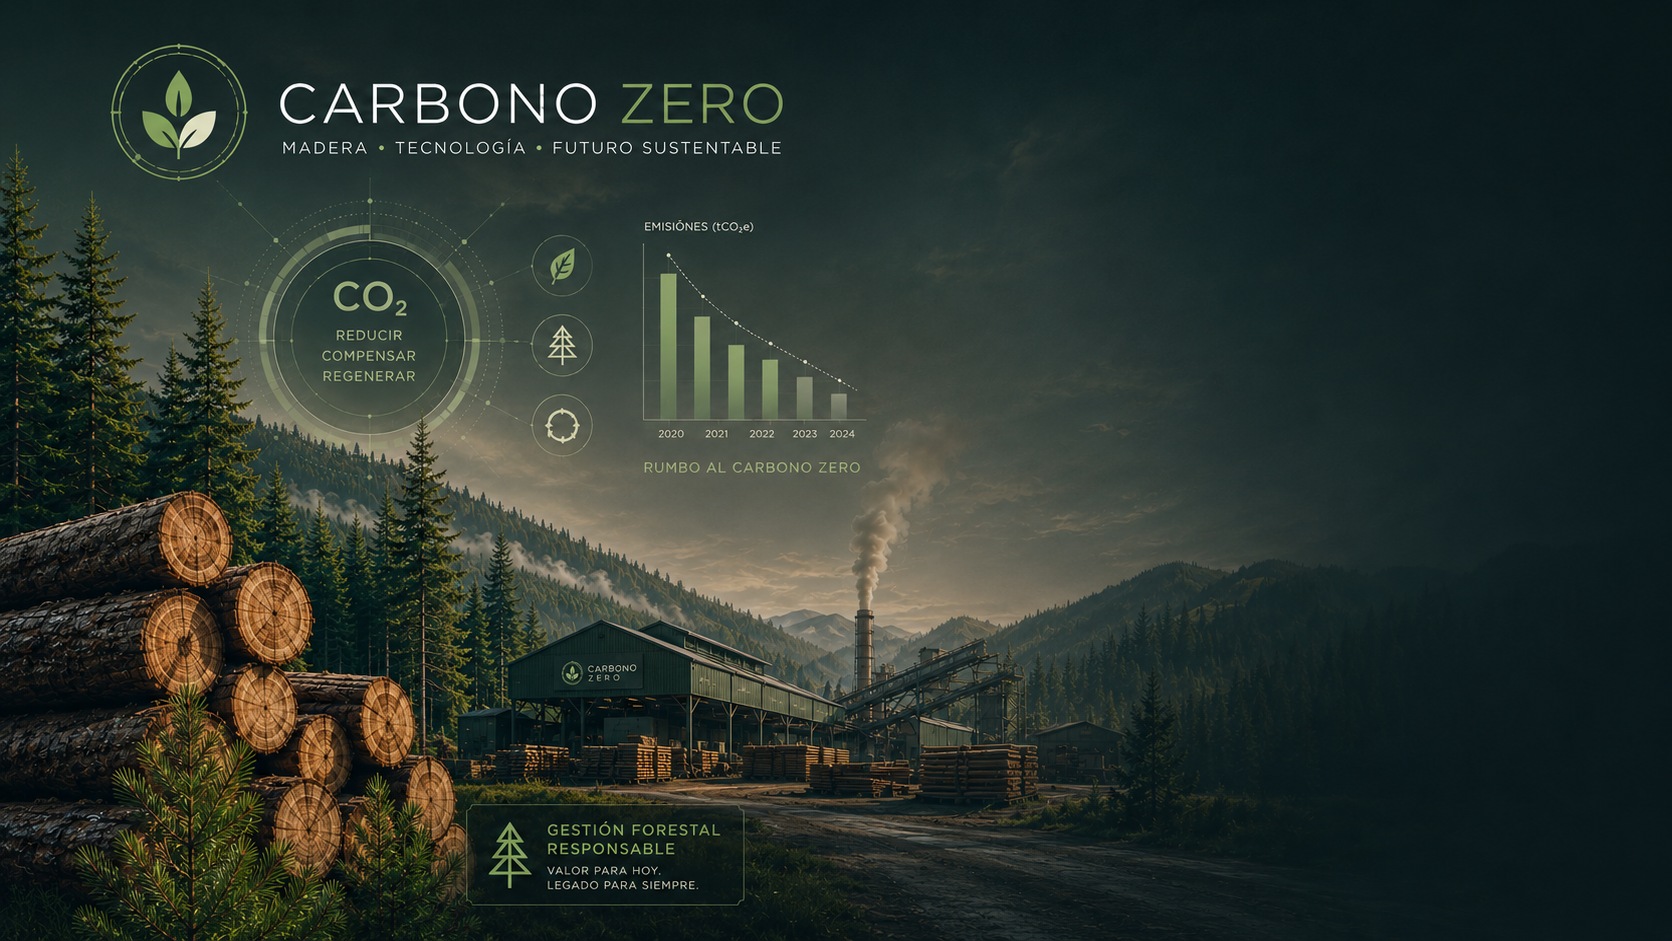
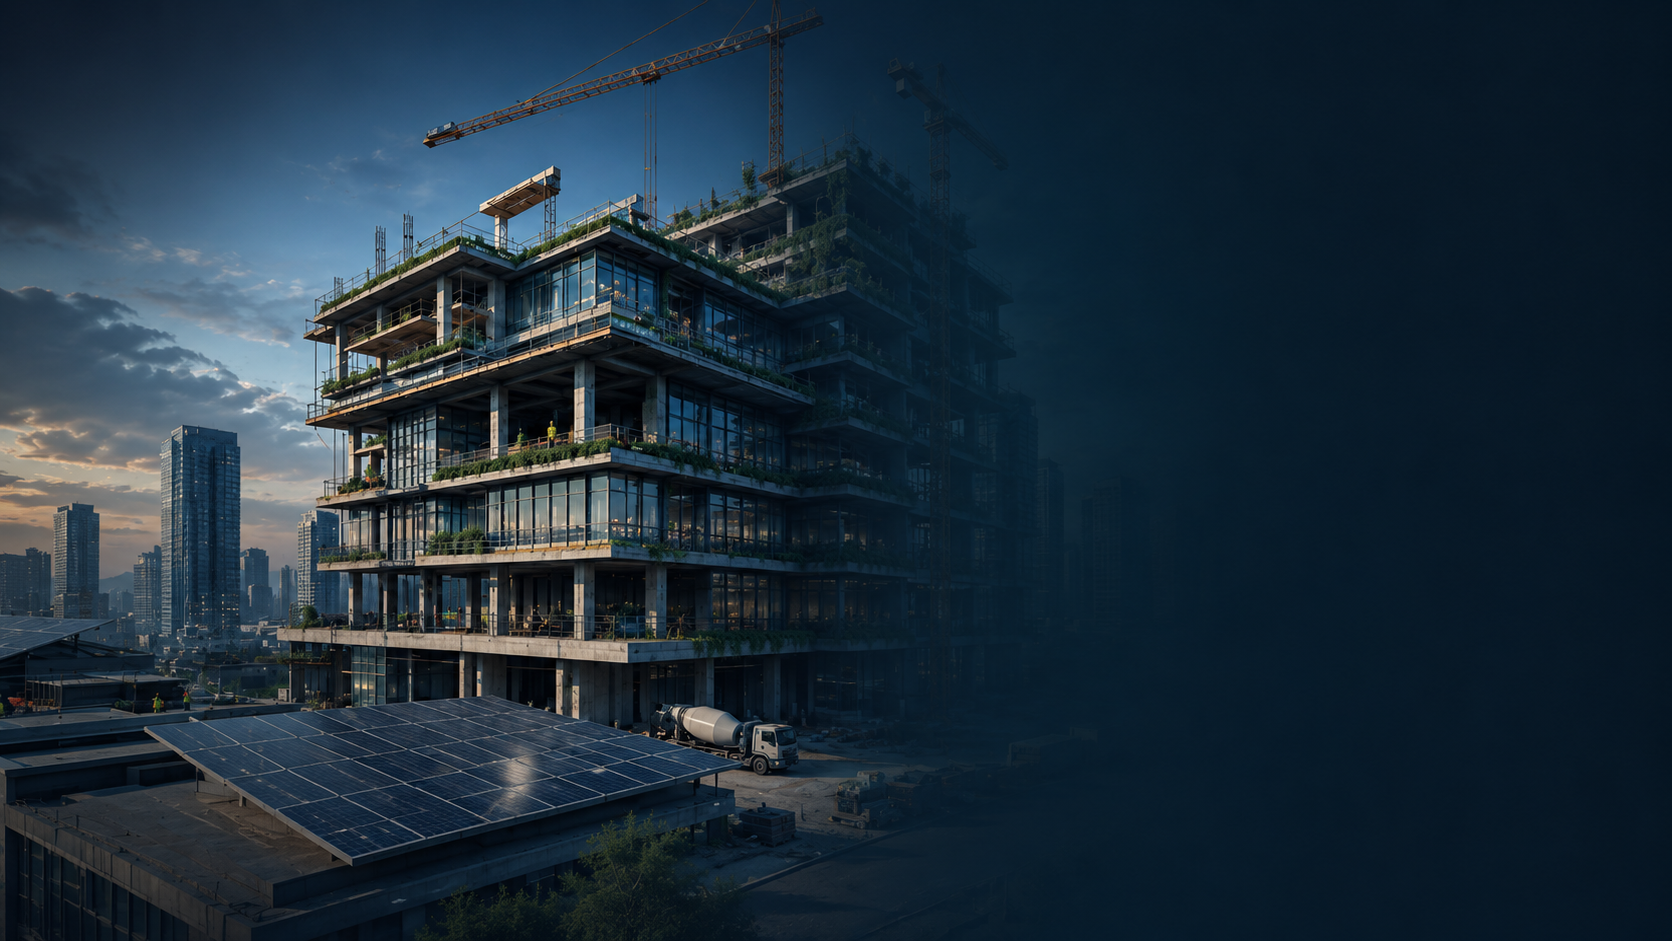
Corrección de caracteres corruptos

diff --git a/frontend/src/features/obras/utils/constructionEmissionCategories.js b/frontend/src/features/obras/utils/constructionEmissionCategories.js
@@ -98,49 +98,49 @@ export function getCategoryFieldCopy(category) {
       sourceLabel: "Material",
       sourcePlaceholder: "Hormigón H30, acero estructural, áridos",
       quantityLabel: "Cantidad",
-      unitHelp: "mÂ³ Â· kg Â· ton Â· m² Â· unidad",
+      unitHelp: "m³ · kg · ton · m² · unidad",
       note: "Registra materiales relevantes para estimar carbono incorporado.",
     },
     Transporte: {
       sourceLabel: "Fuente de emision",
       sourcePlaceholder: "Transporte camión",
       quantityLabel: "Cantidad transportada",
-      unitHelp: "ton Â· kg Â· mÂ³ Â· viajes",
+      unitHelp: "ton · kg · m³ · viajes",
       note: "Usa esta categoría para registrar viajes asociados a materiales, maquinaria o residuos.",
     },
     Maquinaria: {
       sourceLabel: "Equipo o maquinaria",
       sourcePlaceholder: "Excavadora diésel, grúa, generador",
       quantityLabel: "Litros combustible u horas máquina",
-      unitHelp: "litros diésel Â· litros gasolina Â· horas máquina Â· kWh",
+      unitHelp: "litros diésel · litros gasolina · horas máquina · kWh",
       note: "Controla consumo por equipo, ralentí y mantención.",
     },
     Energia: {
       sourceLabel: "Fuente energética",
       sourcePlaceholder: "Electricidad de faena, generador diésel",
       quantityLabel: "Consumo",
-      unitHelp: "kWh Â· litros diésel",
+      unitHelp: "kWh · litros diésel",
       note: "Registra consumo electrico o combustible usado para Energia temporal.",
     },
     Agua: {
       sourceLabel: "Consumo de agua",
       sourcePlaceholder: "Agua de faena",
       quantityLabel: "Consumo",
-      unitHelp: "mÂ³ Â· litros",
+      unitHelp: "m³ · litros",
       note: "Monitorea consumo de agua asociado a la ejecución de obra.",
     },
     Residuos: {
       sourceLabel: "Tipo de residuo",
       sourcePlaceholder: "Escombros, plásticos / embalajes, residuos mixtos",
       quantityLabel: "Cantidad",
-      unitHelp: "kg Â· ton Â· mÂ³",
+      unitHelp: "kg · ton · m³",
       note: "Registra destino y tratamiento cuando exista respaldo documental.",
     },
     Otros: {
       sourceLabel: "Fuente de emision",
       sourcePlaceholder: "Otra fuente de obra",
       quantityLabel: "Cantidad",
-      unitHelp: "kg Â· ton Â· mÂ³ Â· kWh Â· unidad",
+      unitHelp: "kg · ton · m³ · kWh · unidad",
       note: "Clasifica mejor este registro cuando tengas más contexto.",
     },
   };

diff --git a/frontend/src/features/obras/components/tabs/RegistrosEmisionTab.jsx b/frontend/src/features/obras/components/tabs/RegistrosEmisionTab.jsx
@@ -558,7 +558,7 @@ function RegistrosEmisionTab({
                     </option>
                     {visibleFactores.map((factor) => (
                       <option key={factor.id} value={factor.id}>
-                        {factor.fuente_emision} Â· {factor.unidad} Â· {formatNumber(Number(factor.factor_emision), 6)} kgCO2e/{factor.unidad}
+                        {factor.fuente_emision} · {factor.unidad} · {formatNumber(Number(factor.factor_emision), 6)} kgCO2e/{factor.unidad}
                       </option>
                     ))}
                   </select>
@@ -604,13 +604,13 @@ function RegistrosEmisionTab({
                   onChange={onUpdateregistroForm}
                   required
                   disabled={!selectedObra}
-                  placeholder={fieldCopy.unitHelp.split(" Â· ")[0]}
+                  placeholder={fieldCopy.unitHelp.split(" · ")[0]}
                   className="w-full rounded-2xl border border-slate-700 bg-slate-950 px-4 py-3 text-slate-100 outline-none transition focus:border-cyan-400/60 disabled:cursor-not-allowed disabled:opacity-60"
                   list="construction-unit-suggestions"
                 />
                 <span className="block text-xs text-slate-400">{fieldCopy.unitHelp}</span>
                 <datalist id="construction-unit-suggestions">
-                  {fieldCopy.unitHelp.split(" Â· ").map((unit) => (
+                  {fieldCopy.unitHelp.split(" · ").map((unit) => (
                     <option key={unit} value={unit} />
                   ))}
                 </datalist>
@@ -669,7 +669,7 @@ function RegistrosEmisionTab({
                   </option>
                   {selectedObra.evidencias?.map((evidencia) => (
                     <option key={evidencia.id} value={evidencia.id}>
-                      {evidencia.tipo_evidencia_label} Â· {evidencia.fecha}
+                      {evidencia.tipo_evidencia_label} · {evidencia.fecha}
                     </option>
                   ))}
                 </select>

diff --git a/frontend/src/features/constructoras/utils/chileRegions.js b/frontend/src/features/constructoras/utils/chileRegions.js
@@ -24,7 +24,7 @@
     comunas: ["Valparaíso", "Casablanca", "Concón", "Juan Fernández", "Puchuncaví", "Quintero", "Viña del Mar", "Isla de Pascua", "Los Andes", "Calle Larga", "Rinconada", "San Esteban", "La Ligua", "Cabildo", "Papudo", "Petorca", "Zapallar", "Quillota", "Calera", "Hijuelas", "La Cruz", "Nogales", "San Antonio", "Algarrobo", "Cartagena", "El Quisco", "El Tabo", "Santo Domingo", "San Felipe", "Catemu", "Llaillay", "Panquehue", "Putaendo", "Santa María", "Quilpué", "Limache", "Olmué", "Villa Alemana"],
   },
   {
-    region: "Región del Libertador Gral. Bernardo Oâ€™Higgins",
+    region: "Región del Libertador Gral. Bernardo O'Higgins",
     comunas: ["Rancagua", "Codegua", "Coinco", "Coltauco", "Doñihue", "Graneros", "Las Cabras", "Machalí", "Malloa", "Mostazal", "Olivar", "Peumo", "Pichidegua", "Quinta de Tilcoco", "Rengo", "Requínoa", "San Vicente", "Pichilemu", "La Estrella", "Litueche", "Marchihue", "Navidad", "Paredones", "San Fernando", "Chépica", "Chimbarongo", "Lolol", "Nancagua", "Palmilla", "Peralillo", "Placilla", "Pumanque", "Santa Cruz"],
   },
   {
@@ -53,7 +53,7 @@
   },
   {
     region: "Región Aisén del Gral. Carlos Ibáñez del Campo",
-    comunas: ["Coihaique", "Lago Verde", "Aisén", "Cisnes", "Guaitecas", "Cochrane", "Oâ€™Higgins", "Tortel", "Chile Chico", "Río Ibáñez"],
+    comunas: ["Coihaique", "Lago Verde", "Aisén", "Cisnes", "Guaitecas", "Cochrane", "O'Higgins", "Tortel", "Chile Chico", "Río Ibáñez"],
   },
   {
     region: "Región de Magallanes y de la Antártica Chilena",

diff --git a/frontend/src/shared/components/ImportarEvidenciaObraModal.jsx b/frontend/src/shared/components/ImportarEvidenciaObraModal.jsx
@@ -563,7 +563,7 @@ function ImportarEvidenciaObraModal({
           <div className="rounded-3xl border border-[var(--border)] bg-[var(--bg-surface)] p-4">
             <p className="text-xs font-bold uppercase tracking-[0.18em] text-[var(--text-muted)]">Contexto de obra</p>
             <p className="mt-2 text-sm text-[var(--text-main)]">
-              {selectedObra ? `${selectedObra.codigo_obra} Â· ${selectedObra.constructora_nombre || selectedObra.origen || "Obra"}` : "Selecciona una obra destino para continuar."}
+              {selectedObra ? `${selectedObra.codigo_obra} · ${selectedObra.constructora_nombre || selectedObra.origen || "Obra"}` : "Selecciona una obra destino para continuar."}
             </p>
             {loadingCatalogs ? <p className="mt-2 text-xs text-[var(--text-muted)]">Cargando catalogo de obras y factores...</p> : null}
           </div>

diff --git a/frontend/src/features/etapas/pages/EtapasPage.jsx b/frontend/src/features/etapas/pages/EtapasPage.jsx
@@ -606,7 +606,7 @@ function EtapaDetailPanel({ activeTab, loading, onTabChange, unidad }) {
           <p className="text-sm font-bold text-[var(--primary-dark)]">Detalle etapa</p>
           <h2 className="mt-1 text-2xl font-bold text-[var(--text-main)]">{unidad.nombre}</h2>
           <p className="mt-2 text-sm font-medium text-[var(--text-muted)]">
-            {unidad.constructora_nombre || "Sin constructora"} Â· {unidad.region || "Sin region"} Â·{" "}
+            {unidad.constructora_nombre || "Sin constructora"} · {unidad.region || "Sin region"} ·{" "}
             {unidad.comuna || "Sin comuna"}
           </p>
           {unidad.direccion && (

diff --git a/frontend/src/features/obras/components/tabs/ResumenTab.jsx b/frontend/src/features/obras/components/tabs/ResumenTab.jsx
@@ -225,7 +225,7 @@ function ResumenTab({ balanceData, selectedObra }) {
                   <div className="flex items-start justify-between gap-3">
                     <div>
                       <p className="text-xs font-bold text-[var(--primary-dark)]">
-                        #{index + 1} Â· {source.category}
+                        #{index + 1} · {source.category}
                       </p>
                       <p className="mt-1 font-semibold text-[var(--text-main)]">
                         {source.source}

diff --git a/frontend/src/app/App.jsx b/frontend/src/app/App.jsx
@@ -1166,7 +1166,7 @@ const environmentalStatus = getEnvironmentalStatus({
               title="Intensidad de carbono"
               value={
                 carbonIntensity != null
-                  ? `${formatNumber(carbonIntensity, 2)} kg CO2e/mÂ²`
+                  ? `${formatNumber(carbonIntensity, 2)} kg CO2e/m²`
                   : "Pendiente de superficie"
               }
             />
